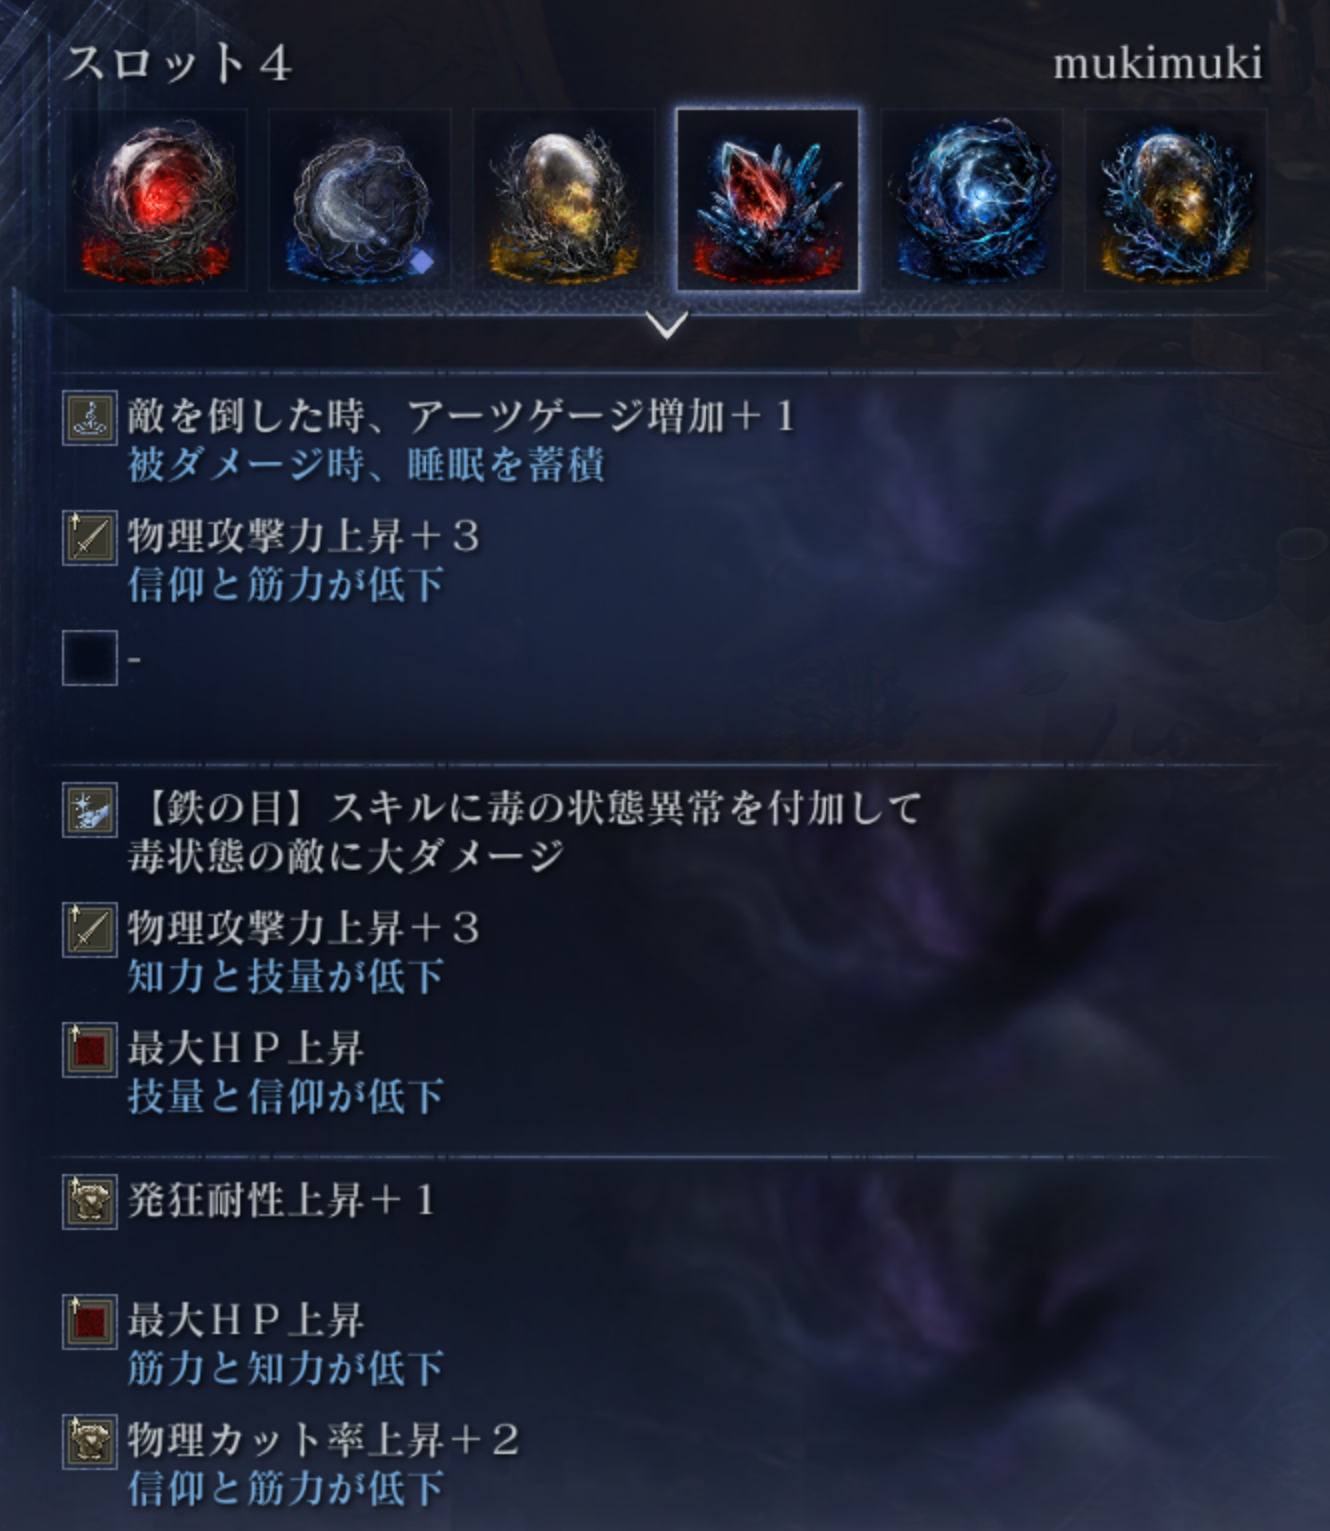
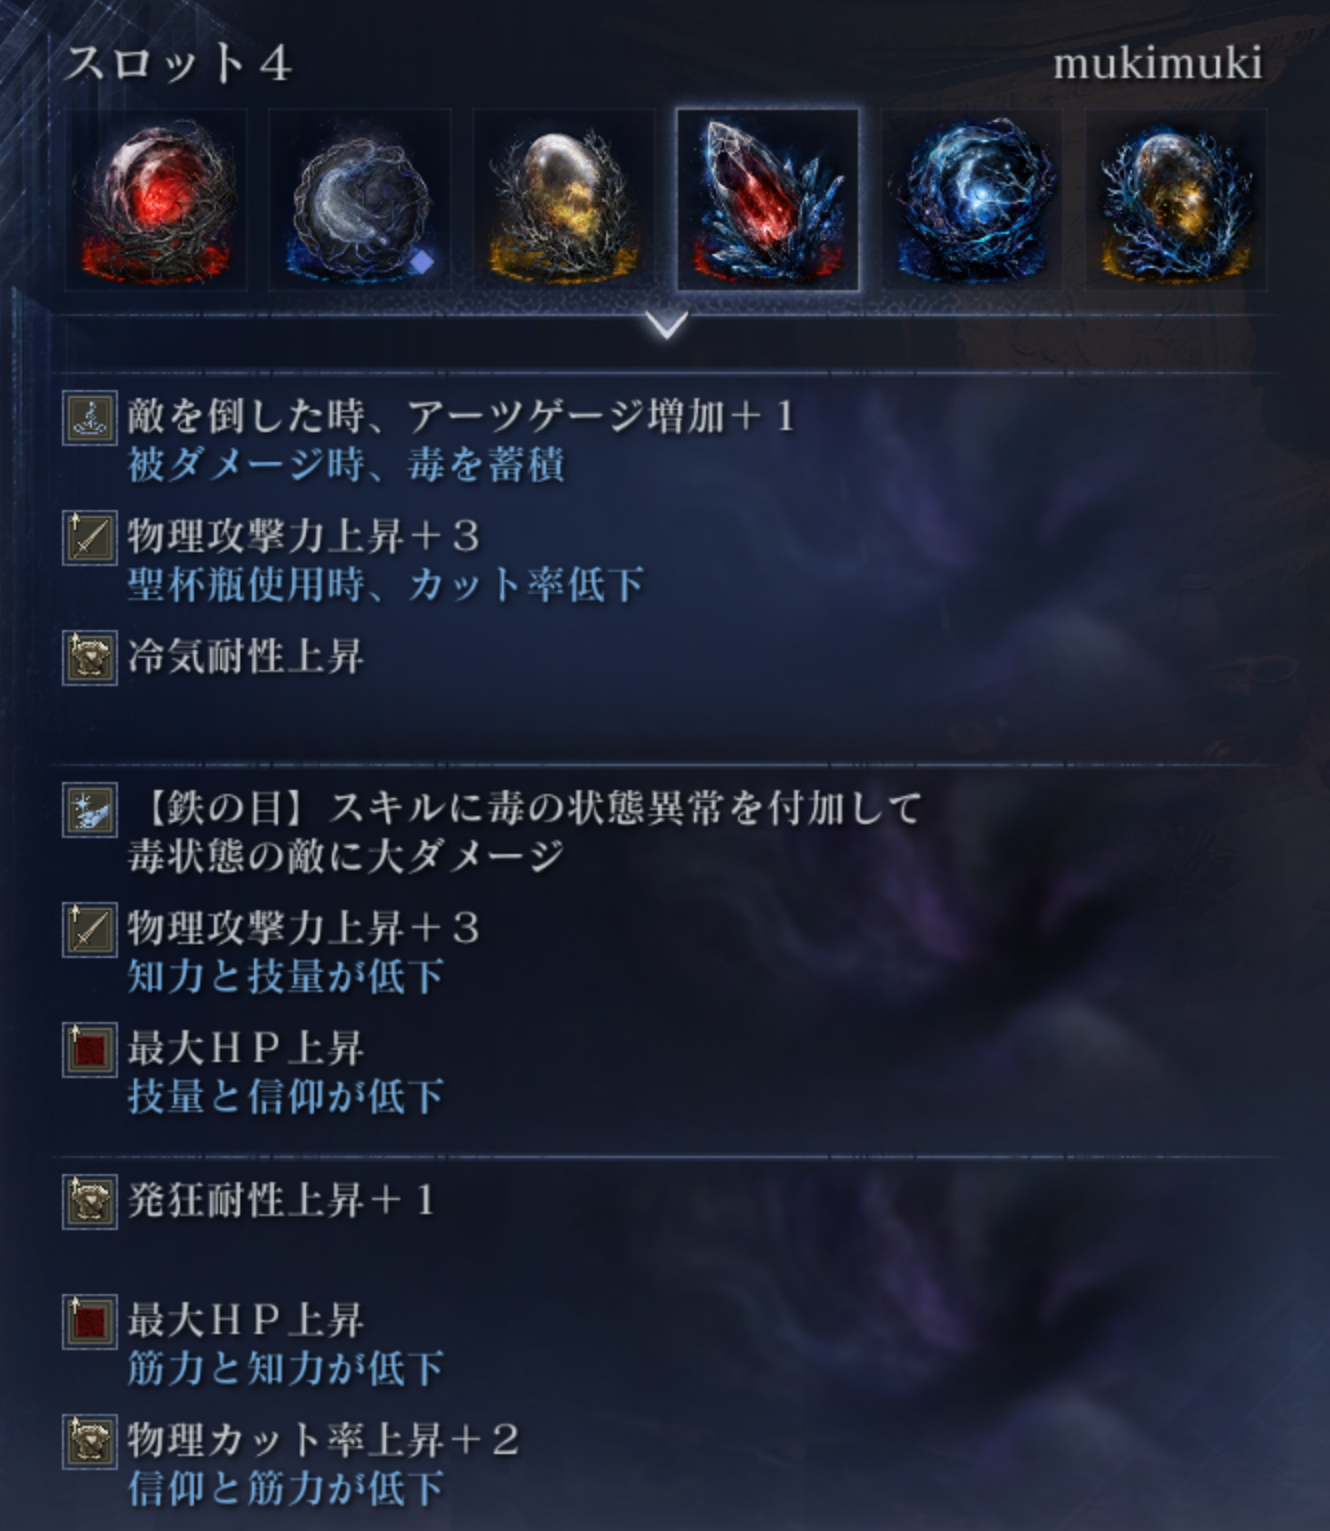
最終更新日・カード別登録日を追加、追跡者/鉄の目の遺物画像とHPを更新
- GitHub APIからdata/relics.jsonの最終コミット日を取得しヘッダーに表示
- 各エントリにcreatedAtを追加し、Lv15 HPの横に登録日を表示（variantGroupsはグループ見出しに日付を添える）
- 追跡者の遺物画像を差し替え、HPを1476に修正
- 鉄の目(マリス以外)のスロット4画像を差し替え

diff --git a/app.js b/app.js
@@ -15,6 +15,34 @@ async function main() {
 
   let selectedCharacter = "all";
 
+  loadLastUpdate();
+
+  async function loadLastUpdate() {
+    const el = document.getElementById("lastUpdate");
+    try {
+      const res = await fetch(
+        "https://api.github.com/repos/esusan/nightreign-relics/commits?path=data/relics.json&per_page=1"
+      );
+      const commits = await res.json();
+      const date = commits?.[0]?.commit?.committer?.date;
+      if (!date) return;
+      const formatted = new Date(date).toLocaleDateString("ja-JP", {
+        year: "numeric",
+        month: "2-digit",
+        day: "2-digit",
+      });
+      el.textContent = `最終更新: ${formatted}`;
+      el.hidden = false;
+    } catch {
+      // 取得できなくても表示は隠したままでよい
+    }
+  }
+
+  function formatDate(iso) {
+    if (!iso) return "";
+    return iso.replaceAll("-", "/");
+  }
+
   function buildCharacterButton(id, label, iconSrc) {
     const btn = document.createElement("button");
     btn.type = "button";
@@ -171,7 +199,9 @@ async function main() {
 
         const label = document.createElement("span");
         label.className = "relic-block-label";
-        label.textContent = group.label;
+        label.textContent = group.createdAt
+          ? `${group.label}（${formatDate(group.createdAt)}）`
+          : group.label;
         block.appendChild(label);
 
         block.appendChild(buildRelicRow(group.images ?? [], `${bossLabel}(${group.label})`));
@@ -198,6 +228,14 @@ async function main() {
     statValue.textContent = entry.hpLv15 ?? "未登録";
     stat.appendChild(statLabel);
     stat.appendChild(statValue);
+
+    if (entry.createdAt) {
+      const dateLabel = document.createElement("span");
+      dateLabel.className = "stat-label stat-date";
+      dateLabel.textContent = `登録日: ${formatDate(entry.createdAt)}`;
+      stat.appendChild(dateLabel);
+    }
+
     footer.appendChild(stat);
 
     const divider = document.createElement("hr");

diff --git a/style.css b/style.css
@@ -60,6 +60,12 @@ body {
   gap: 0.7rem;
 }
 
+.last-update {
+  margin: 0.5rem 0 0;
+  font-size: 0.7rem;
+  color: var(--text-muted);
+}
+
 .site-icon {
   width: 44px;
   height: 44px;
@@ -284,7 +290,12 @@ body {
 .stat-row {
   display: flex;
   align-items: baseline;
+  flex-wrap: wrap;
   gap: 0.5rem;
+}
+
+.stat-date {
+  margin-left: auto;
 }
 
 .stat-label {

diff --git a/index.html b/index.html
@@ -35,6 +35,7 @@
       </a>
     </div>
   </div>
+  <p class="last-update" id="lastUpdate" hidden></p>
 </header>
 
 <section class="filters">
